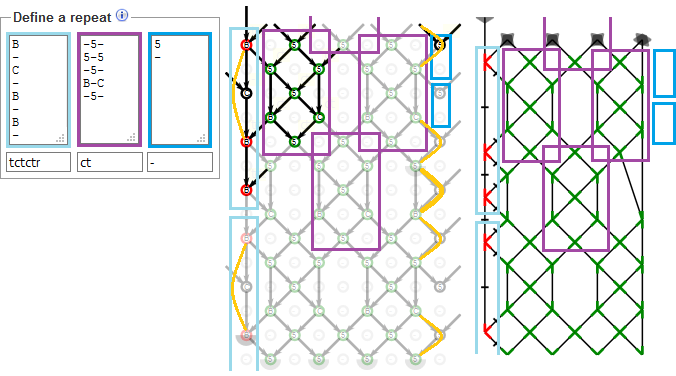
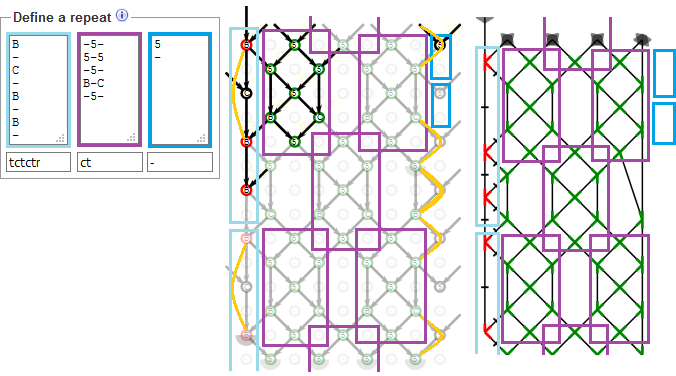
pitfalls for foot sides explained

diff --git a/docs/help/Tiles.md b/docs/help/Tiles.md
@@ -80,19 +80,19 @@ or use `l`'s and `r`'s for a left twist or right twist.
 
 {% include stitches.html %}
 
-Some stitches in foot sides of predefined patterns that show up black,
-may have a `-` in the input field.
+Some predefined patterns may have foot sides.
+Some stitches in these foot sides may show up black and have a `-` in the input field.
 Unless you know what you are doing, don't change these input fields,
 see foot sides under the advance subjects.
 
-Note that in the example below the two foot side stitches on the right of the 
-thread diagram, are drawn as a single stitch in the pair diagram.
-The two stitches are defined with [tctcttrrctct]
+Note that in the example below, two foot side stitches on the right of the 
+thread diagram are drawn as a single stitch in the pair diagram.
+The two stitches are defined with `tctcttrrctct`
 at the top-right stitch in the prototype diagram.
 
 ![](images/foot-side-stitches.png)
 
-[tctcttrrctct]: /GroundForge/tiles.html?patchWidth=3&patchHeight=8&g1=tctcttrrctct&f1=tctct&c1=ctc&b1=tctct&f2=tctct&c2=ctc&b2=tctct&a2=tctct&footside=-7,A1&tile=8,1&headside=8D,4-&footsideStitch=tctct&tileStitch=ctc&headsideStitch=tctct&shiftColsSW=-1&shiftRowsSW=2&shiftColsSE=0&shiftRowsSE=2
+[Life version](/GroundForge/tiles.html?patchWidth=3&patchHeight=8&g1=tctcttrrctct&f1=tctct&c1=ctc&b1=tctct&f2=tctct&c2=ctc&b2=tctct&a2=tctct&footside=-7,A1&tile=8,1&headside=8D,4-&footsideStitch=tctct&tileStitch=ctc&headsideStitch=tctct&shiftColsSW=-1&shiftRowsSW=2&shiftColsSE=0&shiftRowsSE=2)
 
 More or less twists along the foot sides can influence distortion of the thread diagram.
 For the path taken by contrasting pairs in the final design it is only important
@@ -155,7 +155,7 @@ like the ignition key: the simple way to arrange the tiles.
 The prototype highlights a single tile alias repeat in the top left corner,
 this repeat may span just a single column or row of stitches. 
 
-Those wo nevertheless want to understand the numbers
+Those who nevertheless want to understand the numbers
 should not interpret them as mathematical (x,y) coordinates.
 Point (0,0) lies in the north west of a computer canvas, 
 where western scripts start to write on a sheet of paper
@@ -169,30 +169,54 @@ relative to the solid tile.
 Foot sides
 ----------
 
+Foot sides are defined in the side panels of the "define a repeat" panel in the advanced section.
+Note that the right foot sides depends on chosen patch width alias number of columns.
+
 Foot sides may require longer lines than possible to configure in the prototype diagram.
-The orange curves in the  [example] below show how an outer pair can be extended
-with the inner pair of an ignored stitch.
-The blue an purple rectangles illustrate corresponding sections in the form and diagrams.
+The example below shows a workaround.
+
+The blue and purple rectangles in this example illustrate corresponding sections
+in the form, prototype diagram and thread diagram.
+The yellow curves in the prototype show how an outer pair of a foot side stitch
+can be extended with the inner pair of an ignored stitch.
+An ignored stitch has a dash (`-`) in stead of something like `ctct`.
 
 ![](images/foot-sides.png)
 
-[example]: /GroundForge/tiles.html?patchWidth=7&patchHeight=18&a3=-&footside=B,-,C,-,B,-,B,-,&tile=-5-,5-5,-5-,B-C,-5-&headside=5,-,&footsideStitch=tctctr&tileStitch=ct&headsideStitch=-&shiftColsSW=-2&shiftRowsSW=4&shiftColsSE=2&shiftRowsSE=4
+[Life version](/GroundForge/tiles.html?patchWidth=7&patchHeight=18&a3=-&footside=B,-,C,-,B,-,B,-,&tile=-5-,5-5,-5-,B-C,-5-&headside=5,-,&footsideStitch=tctctr&tileStitch=ct&headsideStitch=-&shiftColsSW=-2&shiftRowsSW=4&shiftColsSE=2&shiftRowsSE=4)
 
-One of the foot side stitches `tctctr` on the left, is replaced
-with a dash (`-`) by selecting the stitch in the prototype.
+Just one of the `tctctr` stitches on the left, is ignored. 
 This stretches the outer pair of the next stitch.
 
-
-All stitches that are added to the right side of the pattern for a foot side are ignored.
-In practice you would need at least one column of real stitches to define other stitches
-for the foot side than for the pattern.
-The reconnection illustrated with the thick orange curve
+On the right side a complete column of stitches is ignored. 
+In practice you would need at least one column with real stitches.
+Otherwise you can't define other stitches for the foot side
+than for the pattern for a proper thread diagram.
+The reconnection illustrated with the bold yellow curve
 causes two stitches directly connected with two pairs.
 In those cases the stitches are merged into a single stitch in the pair diagram.
 Thus both pairs for the bottom stitch are stretched.
 
-Not shown in this example, but the software may follow the inner pair of multiple
-ignored stitches to reconnect the outer pair at the bottom of the sequence.  
+**Warning**
+
+It will usually be better to make sure all real stitches have at least one direct connection.
+Below an example that ignores this advise and fails to create a foot side.
+
+![](images/failing-foot-side.png)
+
+[Life version](patchWidth=8&patchHeight=12&p1=-&o1=-&n1=-&m1=-&g1=cttct&f1=cttct&e1=cttct&d1=-&c1=tctct&b1=-&a1=-&o2=-&m2=-&g2=cttct&e2=cttct&c2=tctct&a2=-&p3=-&o3=-&n3=-&m3=-&f3=cttct&d3=cttct&c3=-&b3=-&a3=-&o4=-&m4=tctct&c4=-&a4=-&footside=8315,4-7-,1583,7-4-&tile=831,4-7,-5-&headside=8315,4-7-,1583,7-4-&footsideStitch=-&tileStitch=cttct&headsideStitch=-&shiftColsSW=-2&shiftRowsSW=2&shiftColsSE=2&shiftRowsSE=2)
+
+The three individual yellow curves shows how the outer pair of a foot side stitch
+finds a connection with a real stitch by following an inner pair along an ignored stitch.
+Same for the blue curves, but these reconnects cause parallel pairs and these stitches are merged.
+The sequence of orange curves show how the inner pair of the foot side stitch doesn't find any connection 
+by following outer pairs along ignored stitches.
+
+With the life version you can try to define a stitch at the third row and second column.
+It seems to fix the example for the pair diagram. However, the inner and outer pair are mixed up.
+Even with many twists for this additional stitch, the thread diagram won't look good. 
+
+![](images/foot-side-pairs-mixed-up.png)
 
 
 Demo section
